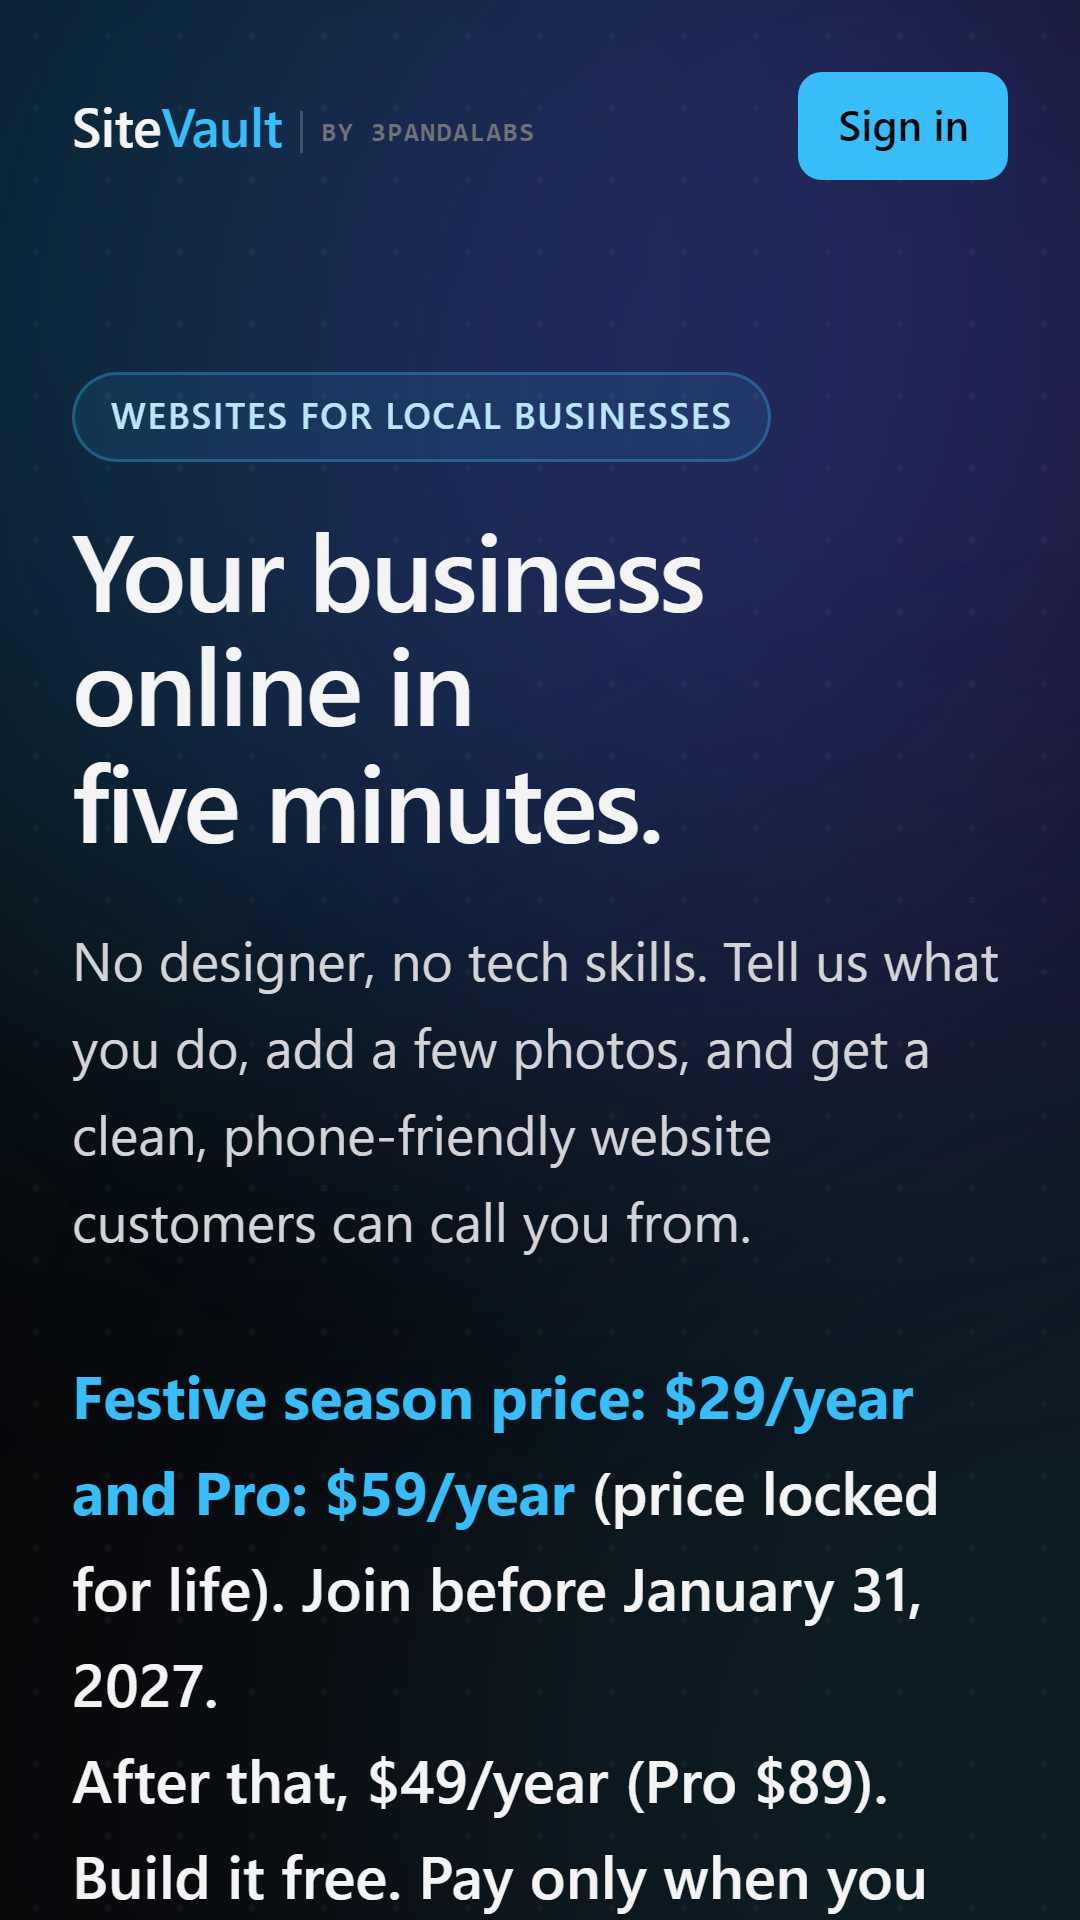
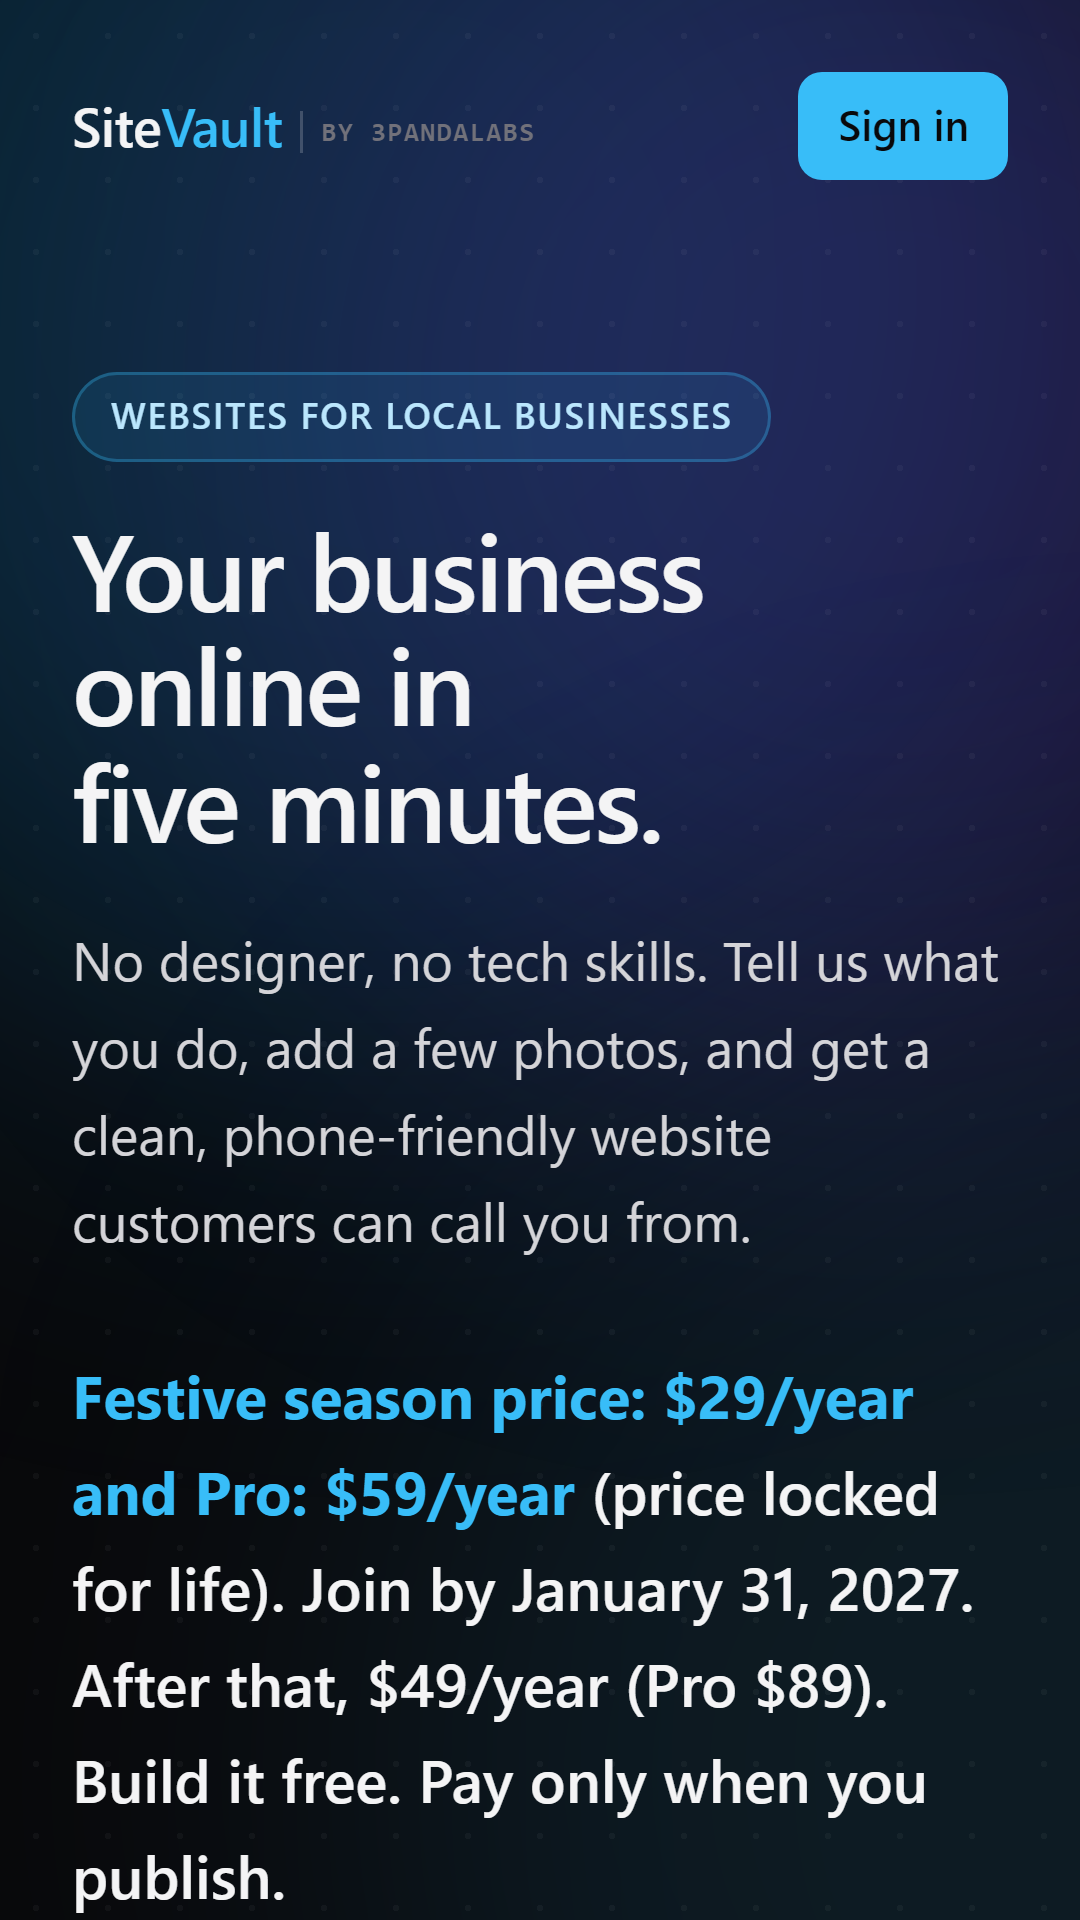
Play listing: current screenshots and price lines (#134)

Changed region(s): [[0.0611, 0.8125, 0.8861, 1.0], [0.0611, 0.9688, 0.0917, 1.0]]

diff --git a/infra/play-store/listing.md b/infra/play-store/listing.md
@@ -36,6 +36,7 @@ SIMPLE PRICING
 • Free to build. Pay only when you publish.
 • Basic: $49 a year. Pro: $89 a year, with visitor stats (visits, where they came from, and call and directions taps).
 • Festive season price: Basic $29 a year or Pro $59 a year, locked for life, when you join by January 31, 2027.
+• Optional offer credits: 5 for $10.
 • Billed yearly. Cancel any time; your site stays up until the end of the paid year.
 
 Edit your website any time from the app. Your SiteVault sign-in also works in AdVault, our YouTube ads app for local businesses.
@@ -58,7 +59,7 @@ Made by 3PandaLabs.
 
 ## App content answers
 - **Ads:** No.
-- **App access:** The home page and the website builder are open; publishing, editing and stats need an account (email + password; the builder creates it). No reviewer/demo login exists yet. Create one on the live site and paste its email + password into "App access". Publishing a new site charges a real card (BILLING is on), unless the reviewer account is on the `ADMIN_EMAILS` comp list.
+- **App access:** The home page and the website builder are open; publishing, editing and stats need an account (email + password; the builder creates it). A reviewer login exists (since 2026-11-22, the same 3PandaLabs account as AdVault; its password is never kept in this repo). Check its details are in "App access". Publishing a new site charges a real card (BILLING is on), unless the reviewer account is on the `ADMIN_EMAILS` comp list.
 - **Target audience:** 18+ (business owners).
 - **Content rating (IARC):** User-generated content is shared publicly: yes (each business publishes a public website with its own text and photos, and website visitors can leave reviews that the owner approves before they show). No chat or messaging between users. No location sharing (the business types its address; the app never reads device location). Digital purchases: yes (yearly website plans and offer credits, paid by card on the web). AI-generated content: no (the builder's one-tap suggestions are fixed templates; no AI).
 - **News app:** No. **Government app:** No. **Health:** No.
